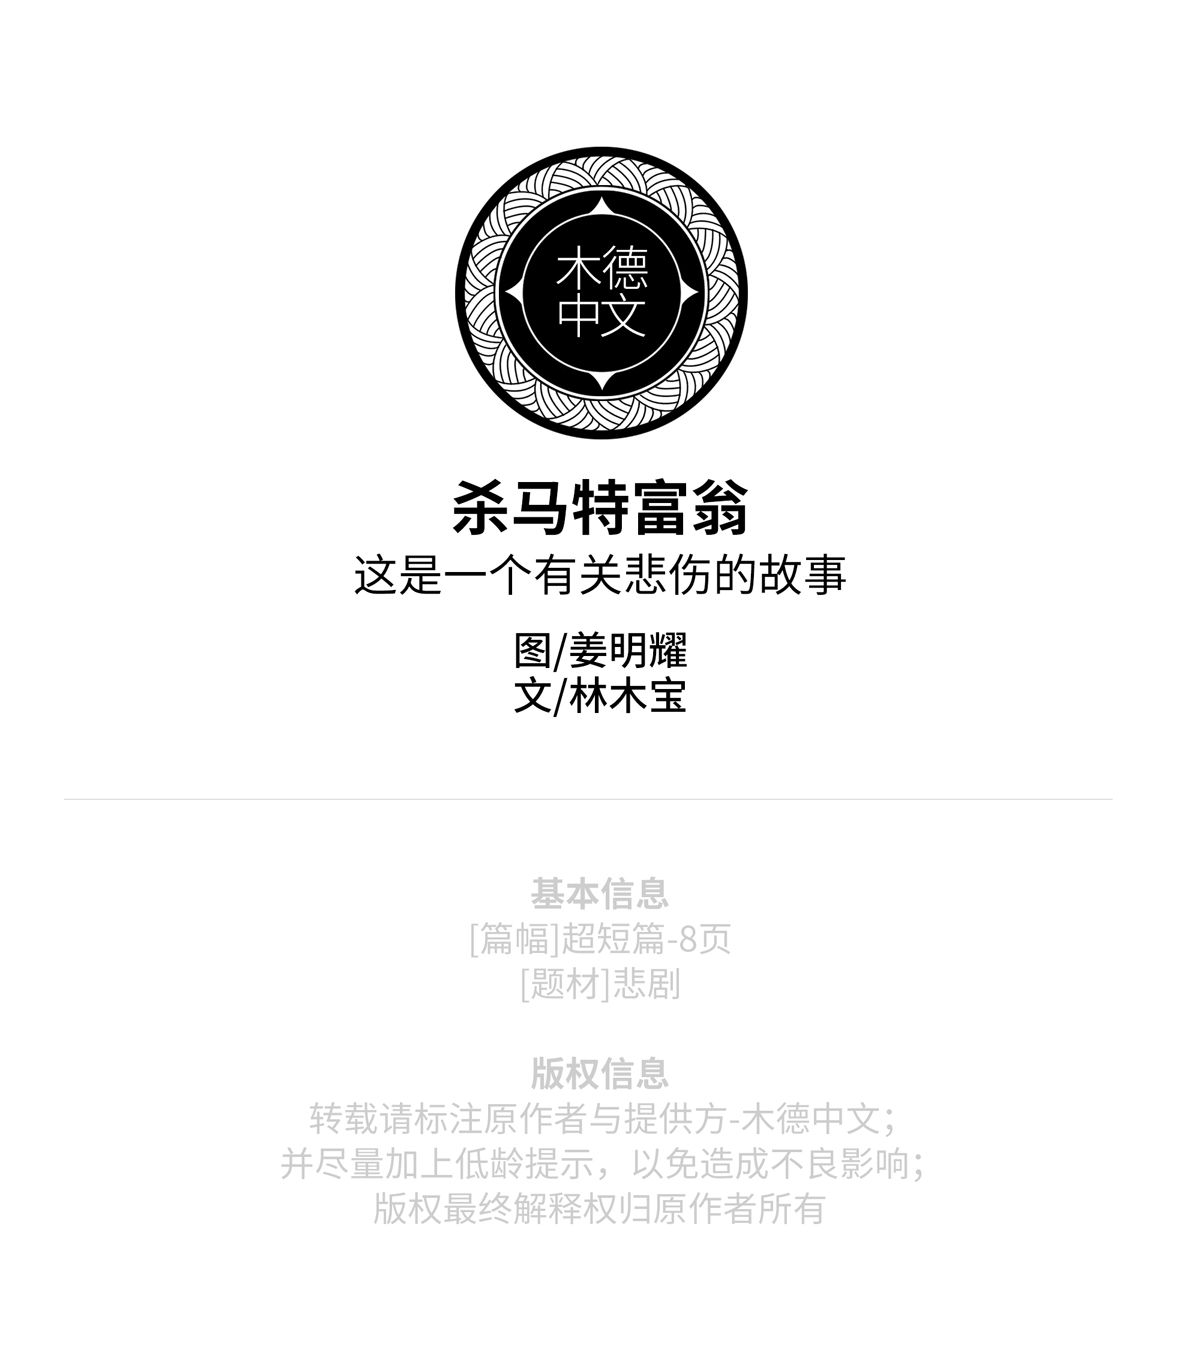
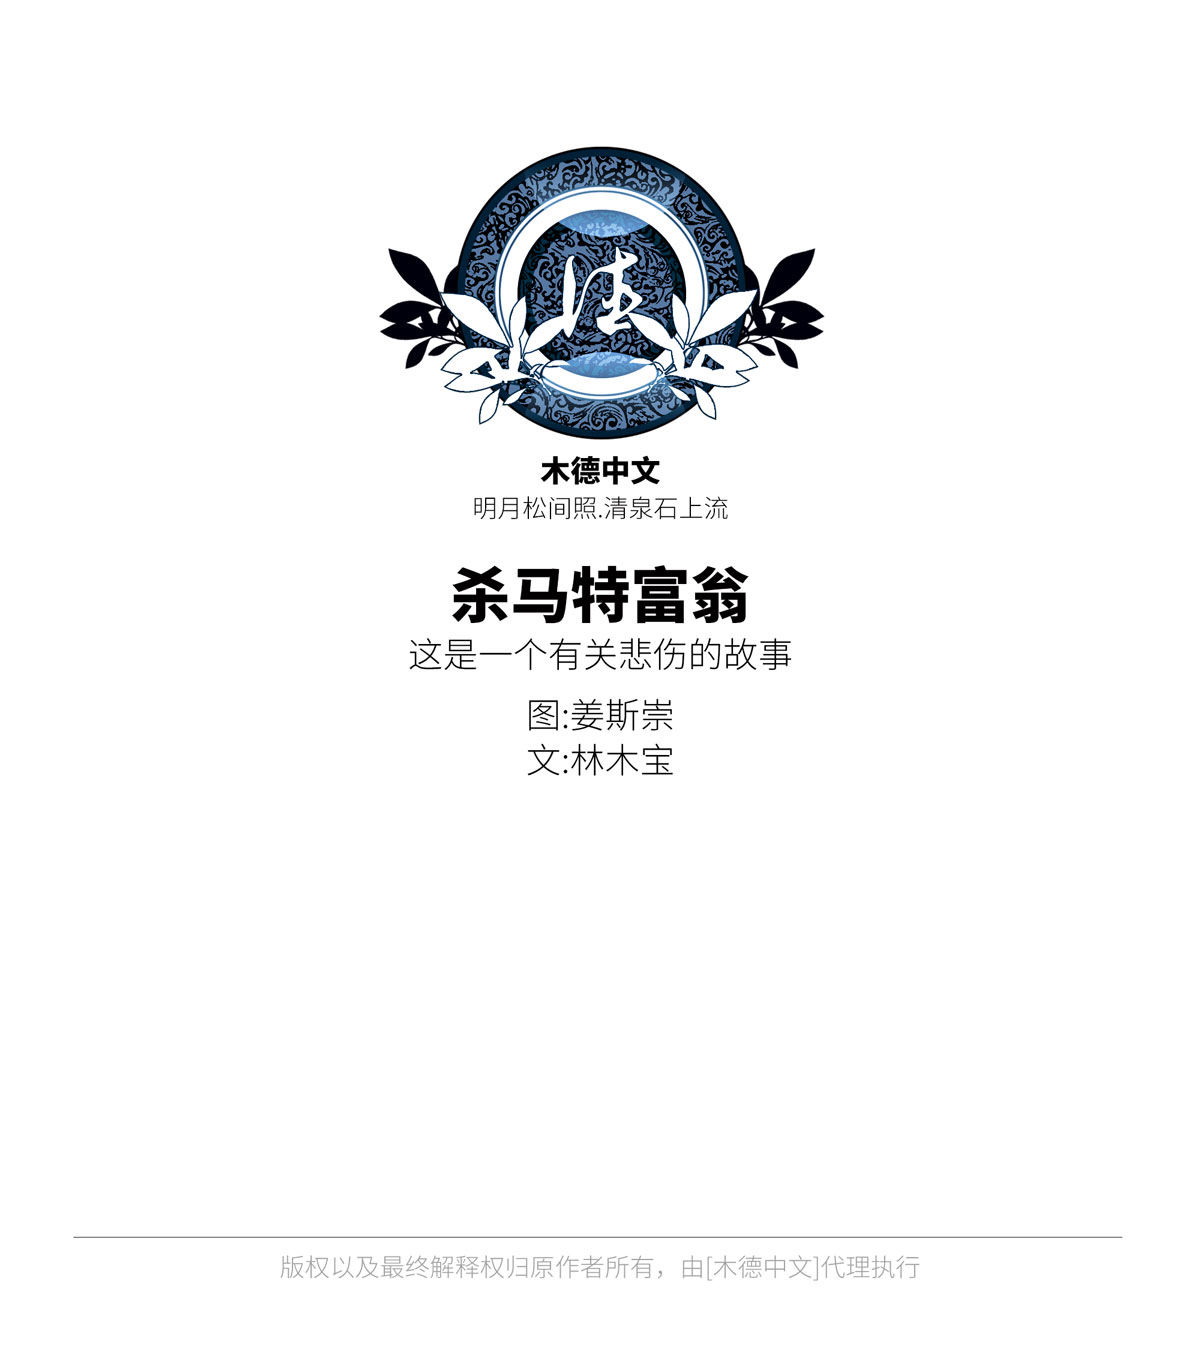
1
1

diff --git a/index.html b/index.html
@@ -1,10 +1,6 @@
 <!DOCTYPE html>
 <html>
-<!--~~~~~~~~~~开始~~~~~~~~~~-->
 
-
-
-<!--~~~~~~~~~~~~~~~~~~~~~~~~~~~~~~~~~~~~~~~~~~~~~~~~~~~~基本设定~~~~~~~~~~~~~~~~~~~~~~~~~~~~~~~~~~~~~~~~~~~~~~~~~~~~-->
 <head>
       <meta charset="UTF-8">
       <meta name="viewport" content="width=device-width, initial-scale=1"/>
@@ -13,40 +9,30 @@
 
       <link href="index.css" type="text/css" rel="stylesheet" />
 
-      <script src="http://ajax.microsoft.com/ajax/jquery/jquery-1.4.min.js"></script>
-      <script src="index.js"></script>
-
       <link rel="shortcut icon" href="images/icon.png">
 
-      <meta name="Keywords" content="木德中文,姜明耀,林木宝,张普,Chris丹,杀马特富翁,漫画">
-      <meta name="Description" content="木德中文官网">
+      <meta name="Keywords" content="木德中文,姜斯崇,漫画">
+      <meta name="Description" content="木德中文">
       <meta name="Author" content="木德中文">
 </head>
 
 
-
-
-
-<!--~~~~~~~~~~~~~~~~~~~~~~~~~~~~~~~~~~~~~~~~~~~~~~~~~~~~正文开始~~~~~~~~~~~~~~~~~~~~~~~~~~~~~~~~~~~~~~~~~~~~~~~~~~~~-->
 <body>
-      <!--~~~~~~~~~~~~~~~~~~~~~~~~~~~~~~~~~~~~~~~~~~~~~~~~~左侧选项栏~~~~~~~~~~~~~~~~~~~~~~~~~~~~~~~~~~~~~~~~~~~~~~~-->
-      <div id="left-container">
-            <br><br>
-            <a href="index.html"><img class="left-word" src="images/1.gif"></a>
-            <a href="past.html"><img class="left-word" src="images/1.png"></a>
-            <a href="about-mude.html"><img class="left-word" src="images/1.png"></a>
+      <div id="head">
+            <p id="language"><a href="#"></a></p>
+            <p><a href="#">最近行程</a>&nbsp&nbsp|&nbsp&nbsp<a href="#">关于木德</a></p>
       </div>
 
+      <div id="first-bar">
+      <div id="picbar">
+      <a href="smartriches/1.html" target="_blank"><img id="pic" src="images/3.jpg"></a>
+      </div>
+      </div>
 
-
-      <!--~~~~~~~~~~~~~~~~~~~~~~~~~~~~~~~~~~~~~~~~~~~~~~~~~通用内容框~~~~~~~~~~~~~~~~~~~~~~~~~~~~~~~~~~~~~~~~~~~~~~~-->
       <div id="picbar">
       <a href="smartriches/1.html" target="_blank"><img id="pic" src="images/1.jpg"></a>
       </div>
-      <!--~~~~~~~~~~~~~~~~~~~~~~~~~~~~~~~~~~~~通用内容框~~~~~~~~~~~~~~~~~~~~~~~~~~~~~~~~~~~~~~~~~~~~-->
+
 </body>
 
-
-
-<!--~~~~~~~~~~结束~~~~~~~~~~-->
-</html>
+</html> 

diff --git a/index.css b/index.css
@@ -1,65 +1,70 @@
 
 
 /*----------------------------------------全局定义----------------------------------------*/
+body{
+	background-color: #65727f;
+}
+
 body,div{
 	margin: 0px;
 	padding: 0;
 }
 
-p,pre{
+p{
 	margin: 0;
 	padding: 0;
-
+    color: white;
 	font-family: "微软雅黑";
 }
 
-img:visited{
+a:link,a:visited,img:visited,img:hover{
+	color:#989ab3;
 	text-decoration: none;
 }
 
-img:hover{
-	text-decoration: none;
+a:hover{
+	color: #d0d2ff;
 }
 
-/*----------------------------------------左侧选项栏----------------------------------------*/
-#left-container{
-	border: 0px solid red;
-	
-	position: fixed;    
-	top: 0;    
+
+#head{
+	border:0px solid white;
+	position: fixed;
+	top:0;
+	left: 0;
+	width: 100%;
+	height: 50px;
+	background-color: #191c1f;
+}
+
+#head p,#language{
 	text-align: center;
-
-	width: 90px;
-	height: 100%;
-	
-	background:url(images/back.jpg);
+	line-height: 50px;
+	font-size:20px;
+	color:#989ab3;
 }
 
-.left-word{
-   border: 0px solid red;
+#language{
+    position: fixed;
+    right:20px;
 
-   margin: 0;
-   padding: 8px;
-   width: 50px;
+}
 
-   color: #bbbbbb;
-
-   border-radius: 50%;
-
-   text-align: center;
+#first-bar{
+	margin-top: 60px;
 }
 
 #picbar{
-	border: 0px solid red;
-	position: fixed;
-	top: 0;
-	right: 0;
-	bottom: 0;
-	left: 90px;
-	overflow: hidden;
-}
+	border:2px solid #191c1f;
+	width: 90%;
 
+	margin:0 auto ;
+	margin-top: 10px;
+	margin-bottom: 10px;
+}
 
 #pic{
     width: 100%;
+    vertical-align: top;
+ 
 }

diff --git a/smartriches/1.css b/smartriches/1.css
@@ -14,60 +14,50 @@ div,p{
 	font-family: "微软雅黑";
 }
 
-a:visited, a:link{
+a:link,a:visited,img:visited,img:hover{
+	color:#d0d2ff;
 	text-decoration: none;
 }
 
-
-/*----------------------------------------左侧选项栏----------------------------------------*/
-#contain-l,#contain-r{
-    border:0px solid red;
-    position: fixed;
-    top:0;
-    width: 90px;
-    height: 100%;
-
-    display: flex;
-    background: url(images/back.jpg);
+a:hover{
+	color: #eeefff;
 }
 
-#contain-l{
-	left:0;
+
+#head{
+	border:0px solid white;
+	position: fixed;
+	top:0;
+	left: 0;
+	width: 100%;
+	height: 50px;
+	background-color: #9ea1b5;
 }
 
-#contain-r{
-	right: 0;
-}
-
-.fanye{
-	margin:auto;
-	padding-bottom: 50px;
-}
-
-/*----------------------------------------右侧选项栏----------------------------------------*/
-#right-container{
-	border: 0px solid red;
-	
-	position: fixed;    
-	top: 0;    
-	right: 0;
+#head p,#index,#page{
 	text-align: center;
-	display: flex;
-
-	width: 90px;
-	height: 100%;
-	
-	color: white;
+	line-height: 50px;
+	font-size:20px;
+	color:#d0d2ff;
 }
 
+#index{
+    position: fixed;
+    left:20px;
+}
+
+#page{
+    position: fixed;
+    right:20px;
+}
 
 /*----------------------------------------漫画区----------------------------------------*/
 
 #comic-container{    
 	border: 0px solid red;
 
-    margin-left: 90px;
-    margin-right: 90px;
+    margin:0 auto;
+    margin-top: 50px;
     text-align: center;
 
 }

diff --git a/smartriches/1.html b/smartriches/1.html
@@ -8,7 +8,7 @@
 <head>
       <meta charset="UTF-8">
 
-      <title>木德-杀马特富翁</title>
+      <title>杀马特富翁</title>
 
       <link href="1.css" type="text/css" rel="stylesheet" />
 
@@ -25,11 +25,9 @@
 
 <!--~~~~~~~~~~~~~~~~~~~~~~~~~~~~~~~~~~~~~~~~~~~~~~~~~~~~正文开始~~~~~~~~~~~~~~~~~~~~~~~~~~~~~~~~~~~~~~~~~~~~~~~~~~~-->
 <body>
-      <div id="contain-l">
-      <a class="fanye" href="#"><img src="images/left.png"></a>
-      </div>
-      <div id="contain-r">
-      <a class="fanye" href="2.html"><img src="images/right.png"></a>
+      <div id="head">
+            <p id="index"><a href="#">回首页</a></p><p id="page"><a href="#">Page1/4</a></p>
+            <p><a href="#">上一页</a>&nbsp&nbsp|&nbsp&nbsp<a href="#">下一页</a></p>
       </div>
      
       <div id="comic-container">

diff --git a/smartriches/2.html b/smartriches/2.html
@@ -8,7 +8,7 @@
 <head>
       <meta charset="UTF-8">
 
-      <title>木德-杀马特富翁</title>
+      <title>杀马特富翁</title>
 
       <link href="1.css" type="text/css" rel="stylesheet" />
 
@@ -25,11 +25,9 @@
 
 <!--~~~~~~~~~~~~~~~~~~~~~~~~~~~~~~~~~~~~~~~~~~~~~~~~~~~~正文开始~~~~~~~~~~~~~~~~~~~~~~~~~~~~~~~~~~~~~~~~~~~~~~~~~~~-->
 <body>
-      <div id="contain-l">
-      <a class="fanye" href="1.html"><img src="images/left.png"></a>
-      </div>
-      <div id="contain-r">
-      <a class="fanye" href="#"><img src="images/right.png"></a>
+      <div id="head">
+            <p id="index"><a href="#">回首页</a></p><p id="page"><a href="#">Page1/4</a></p>
+            <p><a href="#">上一页</a>&nbsp&nbsp|&nbsp&nbsp<a href="#">下一页</a></p>
       </div>
      
       <div id="comic-container">
